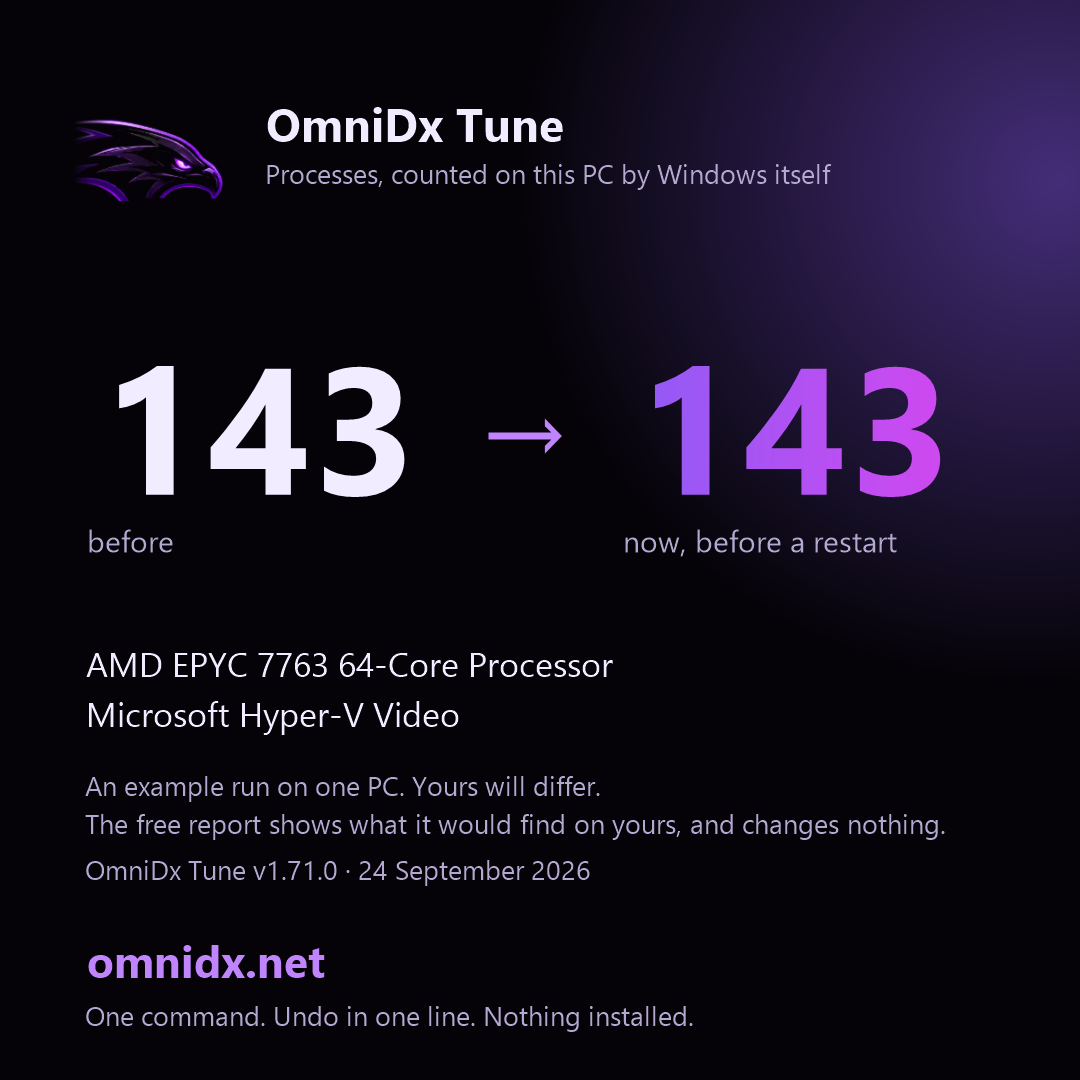
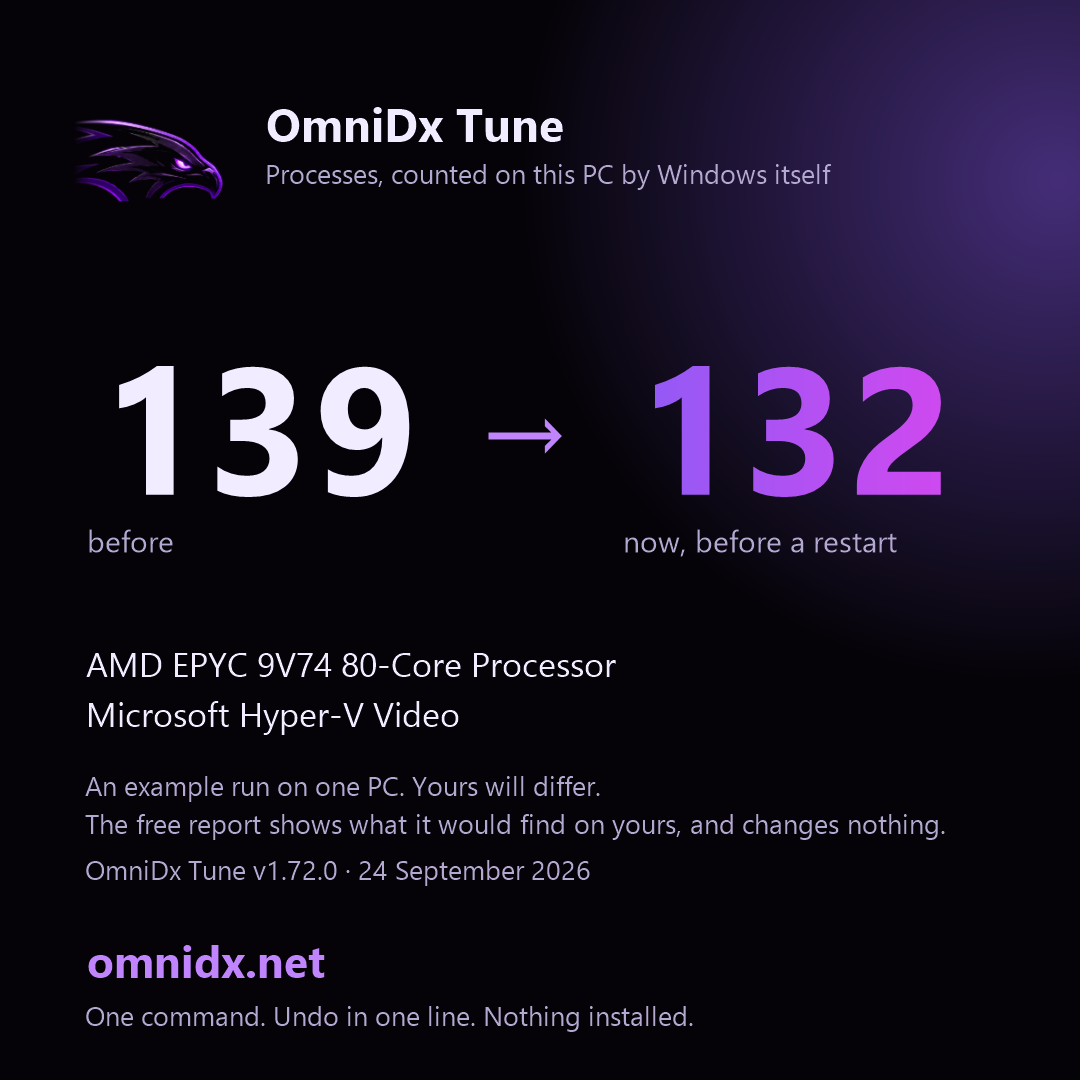
Windows check: the app window, the numbers, the log, and the script this run verified

diff --git a/studio/assets/ci-report.html b/studio/assets/ci-report.html
@@ -1,5 +1,5 @@
 <!doctype html><html lang="en"><head><meta charset="utf-8"><meta name="viewport" content="width=device-width,initial-scale=1">
-<title>OmniDx Tune report - 2026-09-24_12-20-41</title>
+<title>OmniDx Tune report - 2026-09-24_12-28-42</title>
 <style>
 body{margin:0;background:#050308;color:#f1ecff;font:15px/1.6 -apple-system,'Segoe UI',Roboto,system-ui,sans-serif}
 main{max-width:860px;margin:0 auto;padding:36px 20px 80px}
@@ -17,51 +17,51 @@ details{margin:10px 0;background:#0e0a17;border:1px solid #2a1f45;border-radius:
 details pre{font:12.5px/1.5 ui-monospace,Consolas,monospace;color:#b3a8cf;overflow:auto;max-height:420px;margin:10px 0 4px}
 .bios ul{list-style:none;padding-left:2px}.bios li{margin:8px 0;color:#f1ecff}.bios{background:#0e0a17;border:1px solid #2a1f45;border-radius:14px;padding:6px 18px}
 </style></head><body><main>
-<h1><img src="https://omnidx.net/studio/assets/icons/icon-192.png" alt="" width="44" height="44" style="vertical-align:middle;margin-right:10px" onerror="this.remove()">OmniDx Tune <span class="muted" style="font-size:16px">v1.71.0</span></h1>
-<p class="sub">Thursday, September 24, 2026 12:21 PM &middot; AMD EPYC 7763 64-Core Processor &middot; Microsoft Hyper-V Video &middot; 16 GB &middot; Microsoft Corporation Virtual Machine</p>
-<div class="big"><div><b>143</b><span>processes before</span></div><div><b>143</b><span>now, before a restart</span></div><div><b>~70</b><span>target for this PC after a restart</span></div></div>
+<h1><img src="https://omnidx.net/studio/assets/icons/icon-192.png" alt="" width="44" height="44" style="vertical-align:middle;margin-right:10px" onerror="this.remove()">OmniDx Tune <span class="muted" style="font-size:16px">v1.72.0</span></h1>
+<p class="sub">Thursday, September 24, 2026 12:29 PM &middot; AMD EPYC 9V74 80-Core Processor &middot; Microsoft Hyper-V Video &middot; 16 GB &middot; Microsoft Corporation Virtual Machine</p>
+<div class="big"><div><b>139</b><span>processes before</span></div><div><b>132</b><span>now, before a restart</span></div><div><b>~70</b><span>target for this PC after a restart</span></div></div>
 <p class='muted'>The card, for posting (the same numbers, on one picture): <code>ci-card.png</code></p><img src='ci-card.png' alt='Before and after, on a card' style='max-width:340px;width:100%;border-radius:14px;border:1px solid #2a1f45'>
 <p class="muted">Many of the "now" processes are only waiting to be stopped. The number after a restart is the one that counts; <code>C:\OmniDx\after-restart.txt</code> gets it at your next sign-in. Kept cut: a task at each sign-in puts back what a Windows update turns on; undo removes it.</p>
 <h2>Next steps</h2><ol><li>Restart. The services told to stop are still unwinding until you do, and the after-restart count lands in C:\OmniDx\after-restart.txt at your next sign-in, with the boot time of that start next to the one from before the tune.</li><li>BIOS: items 1 to 3 (memory profile, Re-Size BAR, CSM). Ten minutes, and the memory profile alone is the biggest free gain any PC has.</li><li>GPU control panel: low latency mode, power management and V-Sync, from the list below. Two minutes.</li><li>Launchers and overlays: the list below names the one or two settings in each that matter; the overlays are the usual cause of a stutter that &quot;came from nowhere&quot;.</li><li>Any time: $env:OMNIDX_MODE=&#39;status&#39;; irm omnidx.net/go.ps1 | iex shows what is still in place; undo is one line, and it is in this report.</li></ol>
-<h2>Before and after</h2><table><tr><th></th><th>Before</th><th>Now</th></tr><tr><td>Processes</td><td>143</td><td>143</td></tr><tr><td>Threads</td><td>1384</td><td>1538</td></tr><tr><td>Handles</td><td>47505</td><td>48965</td></tr><tr><td>Memory in use</td><td>2810 MB</td><td>3023 MB</td></tr><tr><td>Idle CPU</td><td>2%</td><td>27.3%</td></tr><tr><td>DPC time</td><td>0%</td><td>0.13%</td></tr></table>
+<h2>Before and after</h2><table><tr><th></th><th>Before</th><th>Now</th></tr><tr><td>Processes</td><td>139</td><td>132</td></tr><tr><td>Threads</td><td>1264</td><td>1381</td></tr><tr><td>Handles</td><td>47360</td><td>45685</td></tr><tr><td>Memory in use</td><td>3274 MB</td><td>3342 MB</td></tr><tr><td>Idle CPU</td><td>0.5%</td><td>0.8%</td></tr><tr><td>DPC time</td><td>0%</td><td>0.13%</td></tr></table>
 <h2>Gone, by name</h2><p class='muted'>Running before, not running now: spoolsv</p>
-<details><summary>Every process, before (55 names)</summary><pre>svchost                                  x78     1,134 MB
+<details><summary>Every process, before (55 names)</summary><pre>svchost                                  x75     1,080 MB
 conhost                                  x4         34 MB
-taskhostw                                x3         68 MB
-WmiPrvSE                                 x3         58 MB
+taskhostw                                x3         88 MB
 csrss                                    x2         14 MB
 fontdrvhost                              x2         11 MB
 notepad                                  x2         59 MB
 SMSvcHost                                x2         50 MB
+WmiPrvSE                                 x2         44 MB
 AzureArcSysTray                          x1         20 MB
 ctfmon                                   x1         31 MB
 DefenderSessionHelper                    x1          6 MB
 dockerd                                  x1         46 MB
 dwm                                      x1         76 MB
 explorer                                 x1        158 MB
-hosted-compute-agent                     x1         19 MB
+hosted-compute-agent                     x1         17 MB
 Idle                                     x1          0 MB
 LsaIso                                   x1          4 MB
 lsass                                    x1         31 MB
 MpDefenderCoreService                    x1         29 MB
 mqsvc                                    x1         19 MB
 msdtc                                    x1         14 MB
-MsMpEng                                  x1        162 MB
+MsMpEng                                  x1         73 MB
 node                                     x1         43 MB
 OpenConsole                              x1         14 MB
-powershell                               x1        165 MB
-provjobd.exe1432261340                   x1         21 MB
-Registry                                 x1        106 MB
+powershell                               x1        164 MB
+provjobd.exe529399940                    x1         20 MB
+Registry                                 x1         88 MB
 Runner.Listener                          x1         71 MB
 Runner.Worker                            x1        102 MB
 RuntimeBroker                            x1         47 MB
 SearchHost                               x1        109 MB
 Secure System                            x1         52 MB
-SecurityHealthService                    x1         12 MB
+SecurityHealthService                    x1         30 MB
 ServiceFabricLocalClusterManager         x1         36 MB
-services                                 x1         11 MB
+services                                 x1         12 MB
 ShellHost                                x1         42 MB
-sihost                                   x1         43 MB
+sihost                                   x1         42 MB
 smss                                     x1          2 MB
 spoolsv                                  x1         22 MB
 sqlwriter                                x1         11 MB
@@ -72,73 +72,69 @@ TiWorker                                 x1         30 MB
 TrustedInstaller                         x1         10 MB
 UserOOBEBroker                           x1         11 MB
 vmcompute                                x1         11 MB
-vmms                                     x1         34 MB
-WaAppAgent                               x1         86 MB
+vmms                                     x1         36 MB
+WaAppAgent                               x1         84 MB
 WaSecAgentProv                           x1          5 MB
 WindowsAzureGuestAgent                   x1         70 MB
-WindowsTerminal                          x1         85 MB
+WindowsTerminal                          x1         84 MB
 wininit                                  x1          9 MB
 winlogon                                 x1         13 MB
-wslservice                               x1         27 MB</pre></details><details><summary>Every process, after (60 names)</summary><pre>svchost                                  x70     1,040 MB
+wslservice                               x1         29 MB</pre></details><details><summary>Every process, after (56 names)</summary><pre>svchost                                  x67       981 MB
 conhost                                  x4         34 MB
-firefox                                  x3         90 MB
-taskhostw                                x3         90 MB
-WmiPrvSE                                 x3         66 MB
+taskhostw                                x3         86 MB
 csrss                                    x2         14 MB
 fontdrvhost                              x2         11 MB
 notepad                                  x2         59 MB
-RuntimeBroker                            x2         58 MB
 SMSvcHost                                x2         50 MB
+WmiPrvSE                                 x2         52 MB
 AzureArcSysTray                          x1         20 MB
-crashhelper                              x1          9 MB
+backgroundTaskHost                       x1         20 MB
 ctfmon                                   x1         31 MB
-default-browser-agent                    x1          6 MB
 DefenderSessionHelper                    x1          6 MB
 dllhost                                  x1         13 MB
 dockerd                                  x1         46 MB
 dwm                                      x1         76 MB
 explorer                                 x1        159 MB
-hosted-compute-agent                     x1         17 MB
+hosted-compute-agent                     x1         16 MB
 Idle                                     x1          0 MB
 LsaIso                                   x1          4 MB
 lsass                                    x1         31 MB
-MoUsoCoreWorker                          x1         23 MB
 MpDefenderCoreService                    x1         29 MB
 mqsvc                                    x1         19 MB
 msdtc                                    x1         14 MB
-MsMpEng                                  x1        162 MB
-node                                     x1         41 MB
+MsMpEng                                  x1         73 MB
+node                                     x1         42 MB
 OpenConsole                              x1         14 MB
-powershell                               x1        220 MB
-provjobd.exe1432261340                   x1         21 MB
-Registry                                 x1         67 MB
-Runner.Listener                          x1         70 MB
+powershell                               x1        189 MB
+provjobd.exe529399940                    x1         20 MB
+Registry                                 x1         64 MB
+Runner.Listener                          x1         71 MB
 Runner.Worker                            x1        100 MB
+RuntimeBroker                            x1         48 MB
 SearchHost                               x1        109 MB
 Secure System                            x1         52 MB
-SecurityHealthService                    x1         12 MB
+SecurityHealthService                    x1         30 MB
 ServiceFabricLocalClusterManager         x1         36 MB
 services                                 x1         12 MB
 ShellHost                                x1         42 MB
-sihost                                   x1         42 MB
+sihost                                   x1         43 MB
 smss                                     x1          2 MB
-sppsvc                                   x1         16 MB
 sqlwriter                                x1         11 MB
 sshd                                     x1          9 MB
 StartMenuExperienceHost                  x1        131 MB
 System                                   x1          0 MB
-TiWorker                                 x1         69 MB
+TiWorker                                 x1         39 MB
 TrustedInstaller                         x1         10 MB
 UserOOBEBroker                           x1         11 MB
 vmcompute                                x1         11 MB
-vmms                                     x1         34 MB
-WaAppAgent                               x1         86 MB
+vmms                                     x1         36 MB
+WaAppAgent                               x1         84 MB
 WaSecAgentProv                           x1          5 MB
 WindowsAzureGuestAgent                   x1         70 MB
-WindowsTerminal                          x1         85 MB
+WindowsTerminal                          x1         84 MB
 wininit                                  x1          9 MB
 winlogon                                 x1         13 MB
-wslservice                               x1         27 MB</pre></details>
+wslservice                               x1         29 MB</pre></details>
 <h2>Kept, and why</h2><ul><li>Defender, the firewall, Windows Update, audio, networking: always</li><li>Themes: Windows 10 falls back to the classic look without it</li><li>vmicguestinterface: this is a virtual machine</li><li>vmicheartbeat: this is a virtual machine</li><li>vmickvpexchange: this is a virtual machine</li><li>vmicrdv: this is a virtual machine</li><li>vmicshutdown: this is a virtual machine</li><li>vmictimesync: this is a virtual machine</li><li>vmicvmsession: this is a virtual machine</li><li>vmicvss: this is a virtual machine</li></ul>
 <h2>Warnings (3)</h2><div class="warn"><ul><li>The GPU driver dates from Jun 2006. A current driver is worth more than most tweaks.</li><li>This looks like a virtual machine. The tune will run, but the numbers mean little here.</li><li>Could not make a restore point (This functionality is not supported on this operating system.). The undo script still records everything.</li></ul></div>
 <h2>BIOS checklist for Microsoft Corporation Virtual Machine</h2><div class="bios"><ul><li>How to get in: restart, then press Del or F2 while the logo shows.</li><li>Where things are: the Advanced / Overclocking pages for memory, the PCI or Chipset page for Above 4G / Re-Size BAR, the Boot page for CSM, the Security page for TPM and Secure Boot.</li><li>1. Memory profile: enable EXPO (or DOCP / A-XMP on older boards). Your RAM is running at the slow default until you do; this is the single biggest free gain on any PC. Pick the profile matching the speed printed on the sticks.</li><li>2. Re-Size BAR / Smart Access Memory: set Above 4G Decoding = Enabled, then Re-Size BAR Support = Auto/Enabled. Needs CSM off (next line). Worth 5-15% in many games on RTX 30/40/50 and RX 6000+.</li><li>3. CSM (Compatibility Support Module): Disabled. You already boot UEFI, so nothing depends on it, and Re-Size BAR needs it off.</li><li>4. Secure Boot: Enabled. Windows 11 and Vanguard expect it; on 10 it costs nothing. Set OS Type / Secure Boot Mode to Windows UEFI if asked.</li><li>5. TPM: not detected. Enable AMD fTPM (AMD) or Intel PTT (Intel) under Security / Trusted Computing. VALORANT on Windows 11 will not run without it.</li><li>6. Precision Boost Overdrive: Enabled (or Advanced with the Curve Optimizer at a modest negative offset like -15 all-core if you know your cooler). Never a positive voltage offset.</li><li>7. Global C-states / package C-states: Auto is fine. Disabling them buys nothing measurable in games and raises idle heat.</li><li>8. Fast Boot: Enabled. Full Screen Logo / Boot Logo: Disabled (a second off every boot).</li><li>9. Fan curves: set the CPU fan to reach 100% by 80 C and the case fans to a steady ramp. Sustained boost needs airflow more than anything.</li><li>10. Onboard devices you do not use: serial port, Wi-Fi/Bluetooth if wired, onboard audio if you use USB audio, RGB controllers. Each one removed is an interrupt source gone.</li><li>11. HPET: leave at default. The &#39;disable HPET&#39; tweak is from 2013 and hurts more than it helps on modern Windows.</li><li>12. Virtualisation (SVM / VT-x): leave on if you use WSL, Docker, an emulator, or play VALORANT or on FACEIT (their anti-cheat needs it, with IOMMU); otherwise off saves a little scheduling overhead.</li><li>After saving: Windows will boot normally. If it does not (rare, usually CSM), go back in and re-enable the last thing you changed.</li><li>Do not update the BIOS unless the vendor&#39;s notes mention a fix for your exact problem; a failed flash is the one thing here that cannot be undone from Windows.</li></ul></div>
@@ -146,8 +142,8 @@ wslservice                               x1         27 MB</pre></details>
 <h2>Launchers, overlays and helper apps</h2><ul><li>None of the usual launchers, overlays or peripheral suites found. The same notes apply the day you install one; run the command again and they appear here.</li></ul>
 <h2>Left by other tools</h2><p class="muted">The tune changes none of these; it names them, with the way back.</p><ul><li>Nothing found: no other tool has left Defender, Windows Update, SmartScreen, User Account Control or the CPU mitigations switched off on this PC.</li></ul>
 <h2>Per game</h2><p class='muted'>Not found on this PC (the same profile applies if you install them): Fortnite, VALORANT, Counter-Strike 2, Marvel Rivals, Apex Legends, Call of Duty (Warzone / MW), Overwatch 2, Rainbow Six Siege, Rocket League, Minecraft, Roblox, League of Legends, GTA V / Online, Rust, Escape from Tarkov, PUBG, The Finals, Dota 2, Battlefield 6, Deadlock, Delta Force, ARC Raiders, Helldivers 2, Warframe, Destiny 2, Halo Infinite, Dead by Daylight, Hunt: Showdown 1896, War Thunder, World of Warcraft, Squad, Battlefield 2042, EA Sports FC 26, NBA 2K26, Palworld, Path of Exile 2, Diablo IV, Monster Hunter Wilds, Elden Ring / Nightreign, Cyberpunk 2077, Baldur&#39;s Gate 3, Star Citizen, DayZ, Arma Reforger, Hell Let Loose, Genshin Impact, Ready or Not, Final Fantasy XIV, STALKER 2, Sea of Thieves</p>
-<h2>What was done</h2><h4>Safety first</h4><div class='did'>Registry and service list backed up to C:\OmniDx\backup\2026-09-24_12-20-41</div><div class='did'>undo.ps1 written to C:\OmniDx\undo</div><h4>Startup apps</h4><div class='did'>off: AzureArcSetup</div><div class='did'>off: Service Fabric Local Cluster Manager (Startup folder)</div><h4>Services</h4><div class='did'>dmwappushservice -&gt; disabled  (telemetry push)</div><div class='did'>WerSvc -&gt; disabled  (error reporting)</div><div class='did'>wercplsupport -&gt; disabled  (error reporting)</div><div class='did'>PcaSvc -&gt; disabled  (compatibility assistant)</div><div class='did'>lfsvc -&gt; disabled  (geolocation)</div><div class='did'>RemoteRegistry -&gt; disabled  (remote registry)</div><div class='did'>WMPNetworkSvc -&gt; disabled  (media sharing)</div><div class='did'>TrkWks -&gt; disabled  (link tracking)</div><div class='did'>WalletService -&gt; disabled  (wallet)</div><div class='did'>wisvc -&gt; disabled  (insider program)</div><div class='did'>SEMgrSvc -&gt; disabled  (payments and NFC)</div><div class='did'>TapiSrv -&gt; disabled  (telephony)</div><div class='did'>SharedAccess -&gt; disabled  (internet connection sharing)</div><div class='did'>edgeupdate -&gt; manual  (Edge updater (runs on demand))</div><div class='did'>WbioSrvc -&gt; disabled  (biometrics)</div><div class='did'>SysMain already disabled; left that way</div><div class='did'>WSearch already disabled; left that way</div><div class='did'>Spooler -&gt; disabled  (print spooler)</div><div class='did'>bthserv -&gt; disabled  (bluetooth)</div><div class='did'>WlanSvc -&gt; disabled  (wi-fi)</div><div class='did'>CDPSvc -&gt; manual  (connected devices)</div><div class='did'>CDPUserSvc already disabled; left that way</div><div class='did'>OneSyncSvc already disabled; left that way</div><div class='did'>PimIndexMaintenanceSvc already disabled; left that way</div><div class='did'>UnistoreSvc already disabled; left that way</div><div class='did'>UserDataSvc already disabled; left that way</div><div class='did'>SSDPSRV already disabled; left that way</div><div class='did'>upnphost already disabled; left that way</div><div class='did'>DPS -&gt; manual  (diagnostic policy)</div><div class='did'>SCardSvr -&gt; disabled  (smart card)</div><div class='did'>ScDeviceEnum -&gt; disabled  (smart card)</div><div class='did'>CertPropSvc -&gt; disabled  (smart card)</div><div class='did'>iphlpsvc -&gt; manual  (ipv6 tunnels)</div><div class='did'>cbdhsvc -&gt; manual  (clipboard history)</div><div class='did'>WpnService -&gt; manual  (push notifications)</div><div class='did'>WpnUserService -&gt; manual  (push notifications)</div><div class='did'>SNMPTRAP -&gt; disabled  (SNMP traps)</div><div class='did'>workfolderssvc -&gt; disabled  (Work Folders sync)</div><h4>Scheduled tasks</h4><div class='did'>PcaPatchDbTask</div><div class='did'>CreateObjectTask</div><div class='did'>Device</div><div class='did'>Device User</div><div class='did'>LoginCheck</div><div class='did'>WindowsActionDialog</div><div class='did'>OobeDiscovery</div><div class='did'>Diagnostics</div><div class='did'>UsageDataFlushing</div><div class='did'>UsageDataReporting</div><div class='did'>Registration</div><div class='did'>IndexerAutomaticMaintenance</div><div class='did'>Storage Tiers Management Initialization</div><div class='did'>UPnPHostConfig</div><div class='did'>ResolutionHost</div><div class='did'>UpdateLibrary</div><div class='did'>Work Folders Logon Synchronization</div><div class='did'>Work Folders Maintenance Work</div><h4>Preinstalled apps</h4><div class='did'>Microsoft.WindowsFeedbackHub</div><h4>Debloat</h4><div class='did'>removed Steps Recorder (screenshots every click, retired by Microsoft)</div><div class='did'>removed the 2009 Windows Media Player (the Store one stays)</div><div class='did'>removed Math Input Panel</div><div class='did'>removed Internet Explorer 11</div><div class='did'>off: Work Folders (corporate sync)</div><div class='did'>Edge: shopping assistant, recommendations, Spotlight, feedback prompts and reporting off</div><div class='did'>Kept gone: consumer features, suggested apps, account nags and the &#39;finish setting up&#39; screen are off by policy</div><h4>Telemetry, background activity, the shell</h4><div class='did'>Telemetry, the advertising id, activity history, suggestions, Bing in Start, Recall and Edge&#39;s reporting off; background apps off; widgets, news, Copilot and Cortana off; Game DVR off, Game Mode on; the classic right-click menu on 11</div><h4>System tuning</h4><div class='did'>NTFS last-access stamps off</div><div class='did'>NTFS allowed more memory for its cache</div><div class='did'>Defender&#39;s scheduled scans already capped at 5% of the CPU, lower than the tune&#39;s 25%: left as it is</div><h4>The OmniDx power plan</h4><div class='did'>2 plan setting(s) this PC does not have were skipped.</div><div class='did'>OmniDx plan created and active: CPU 100/100, boost aggressive, energy preference on performance, no core parking, no throttle states on a desktop, PCIe, USB and Wi-Fi power saving off, no sleep on mains.</div><h4>Network</h4><div class='did'>TCP: autotuning normal, ECN and timestamps off, receive-side scaling on, segment coalescing off, CTCP.</div><div class='did'>Ethernet 3: Nagle off, power saving off</div><div class='did'>Ethernet 4: Interrupt Moderation off</div><div class='did'>Ethernet 4: Nagle off, power saving off</div><h4>Discord, Spotify, browsers</h4><div class='did'>Chrome: no background mode, hardware acceleration on</div><div class='did'>Edge: no startup boost, no background mode, hardware acceleration on</div><h4>Game profiles</h4><div class='did'>No listed game found on the usual drives; the CPU-priority profiles are in place for when one is installed.</div><h4>Cleanup</h4><div class='did'>Temp files, the Windows Update download cache and the peer-to-peer update cache cleared: about 305 MB back.</div><h4>Keeping it cut</h4><div class='did'>Task &#39;OmniDx keep&#39; runs three minutes after sign-in, puts back whatever an update turned on, notes that start&#39;s boot time and writes card-after-restart.png with that start&#39;s count. Log: C:\OmniDx\keep-log.txt. Undo removes it.</div>
-<h2>Undo</h2><p>Administrator PowerShell: <code>powershell -ExecutionPolicy Bypass -File C:\OmniDx\undo\undo.ps1</code><br>No restore point was made on this run (see the warnings); the undo script is the way back.<br>Changes recorded in <code>C:\OmniDx\undo\changes-2026-09-24_12-20-41.json</code>.</p>
+<h2>What was done</h2><h4>Safety first</h4><div class='did'>Registry and service list backed up to C:\OmniDx\backup\2026-09-24_12-28-42</div><div class='did'>undo.ps1 written to C:\OmniDx\undo</div><h4>Startup apps</h4><div class='did'>off: AzureArcSetup</div><div class='did'>off: Service Fabric Local Cluster Manager (Startup folder)</div><h4>Services</h4><div class='did'>dmwappushservice -&gt; disabled  (telemetry push)</div><div class='did'>WerSvc -&gt; disabled  (error reporting)</div><div class='did'>wercplsupport -&gt; disabled  (error reporting)</div><div class='did'>PcaSvc -&gt; disabled  (compatibility assistant)</div><div class='did'>lfsvc -&gt; disabled  (geolocation)</div><div class='did'>RemoteRegistry -&gt; disabled  (remote registry)</div><div class='did'>WMPNetworkSvc -&gt; disabled  (media sharing)</div><div class='did'>TrkWks -&gt; disabled  (link tracking)</div><div class='did'>WalletService -&gt; disabled  (wallet)</div><div class='did'>wisvc -&gt; disabled  (insider program)</div><div class='did'>SEMgrSvc -&gt; disabled  (payments and NFC)</div><div class='did'>TapiSrv -&gt; disabled  (telephony)</div><div class='did'>SharedAccess -&gt; disabled  (internet connection sharing)</div><div class='did'>edgeupdate -&gt; manual  (Edge updater (runs on demand))</div><div class='did'>WbioSrvc -&gt; disabled  (biometrics)</div><div class='did'>SysMain already disabled; left that way</div><div class='did'>WSearch already disabled; left that way</div><div class='did'>Spooler -&gt; disabled  (print spooler)</div><div class='did'>bthserv -&gt; disabled  (bluetooth)</div><div class='did'>WlanSvc -&gt; disabled  (wi-fi)</div><div class='did'>CDPSvc -&gt; manual  (connected devices)</div><div class='did'>CDPUserSvc already disabled; left that way</div><div class='did'>OneSyncSvc already disabled; left that way</div><div class='did'>PimIndexMaintenanceSvc already disabled; left that way</div><div class='did'>UnistoreSvc already disabled; left that way</div><div class='did'>UserDataSvc already disabled; left that way</div><div class='did'>SSDPSRV already disabled; left that way</div><div class='did'>upnphost already disabled; left that way</div><div class='did'>DPS -&gt; manual  (diagnostic policy)</div><div class='did'>SCardSvr -&gt; disabled  (smart card)</div><div class='did'>ScDeviceEnum -&gt; disabled  (smart card)</div><div class='did'>CertPropSvc -&gt; disabled  (smart card)</div><div class='did'>iphlpsvc -&gt; manual  (ipv6 tunnels)</div><div class='did'>cbdhsvc -&gt; manual  (clipboard history)</div><div class='did'>WpnService -&gt; manual  (push notifications)</div><div class='did'>WpnUserService -&gt; manual  (push notifications)</div><div class='did'>SNMPTRAP -&gt; disabled  (SNMP traps)</div><div class='did'>workfolderssvc -&gt; disabled  (Work Folders sync)</div><h4>Scheduled tasks</h4><div class='did'>PcaPatchDbTask</div><div class='did'>CreateObjectTask</div><div class='did'>Device</div><div class='did'>Device User</div><div class='did'>LoginCheck</div><div class='did'>WindowsActionDialog</div><div class='did'>OobeDiscovery</div><div class='did'>Diagnostics</div><div class='did'>UsageDataFlushing</div><div class='did'>UsageDataReporting</div><div class='did'>Registration</div><div class='did'>IndexerAutomaticMaintenance</div><div class='did'>Storage Tiers Management Initialization</div><div class='did'>UPnPHostConfig</div><div class='did'>ResolutionHost</div><div class='did'>UpdateLibrary</div><div class='did'>Work Folders Logon Synchronization</div><div class='did'>Work Folders Maintenance Work</div><h4>Preinstalled apps</h4><div class='did'>Microsoft.WindowsFeedbackHub</div><h4>Debloat</h4><div class='did'>removed Steps Recorder (screenshots every click, retired by Microsoft)</div><div class='did'>removed the 2009 Windows Media Player (the Store one stays)</div><div class='did'>removed Math Input Panel</div><div class='did'>removed Internet Explorer 11</div><div class='did'>off: Work Folders (corporate sync)</div><div class='did'>Edge: shopping assistant, recommendations, Spotlight, feedback prompts and reporting off</div><div class='did'>Kept gone: consumer features, suggested apps, account nags and the &#39;finish setting up&#39; screen are off by policy</div><h4>Telemetry, background activity, the shell</h4><div class='did'>Telemetry, the advertising id, activity history, suggestions, Bing in Start, Recall and Edge&#39;s reporting off; background apps off; widgets, news, Copilot and Cortana off; Game DVR off, Game Mode on; the classic right-click menu on 11</div><h4>System tuning</h4><div class='did'>NTFS last-access stamps off</div><div class='did'>NTFS allowed more memory for its cache</div><div class='did'>Defender&#39;s scheduled scans already capped at 5% of the CPU, lower than the tune&#39;s 25%: left as it is</div><h4>The OmniDx power plan</h4><div class='did'>2 plan setting(s) this PC does not have were skipped.</div><div class='did'>OmniDx plan created and active: CPU 100/100, boost aggressive, energy preference on performance, no core parking, no throttle states on a desktop, PCIe, USB and Wi-Fi power saving off, no sleep on mains.</div><h4>Network</h4><div class='did'>TCP: autotuning normal, ECN and timestamps off, receive-side scaling on, segment coalescing off, CTCP.</div><div class='did'>Ethernet 3: Nagle off, power saving off</div><div class='did'>Ethernet 4: Interrupt Moderation off</div><div class='did'>Ethernet 4: Nagle off, power saving off</div><h4>Discord, Spotify, browsers</h4><div class='did'>Chrome: no background mode, hardware acceleration on</div><div class='did'>Edge: no startup boost, no background mode, hardware acceleration on</div><h4>Game profiles</h4><div class='did'>No listed game found on the usual drives; the CPU-priority profiles are in place for when one is installed.</div><h4>Cleanup</h4><div class='did'>Temp files, the Windows Update download cache and the peer-to-peer update cache cleared: about 374 MB back.</div><h4>Keeping it cut</h4><div class='did'>Task &#39;OmniDx keep&#39; runs three minutes after sign-in, puts back whatever an update turned on, notes that start&#39;s boot time and writes card-after-restart.png with that start&#39;s count. Log: C:\OmniDx\keep-log.txt. Undo removes it.</div>
+<h2>Undo</h2><p>Administrator PowerShell: <code>powershell -ExecutionPolicy Bypass -File C:\OmniDx\undo\undo.ps1</code><br>No restore point was made on this run (see the warnings); the undo script is the way back.<br>Changes recorded in <code>C:\OmniDx\undo\changes-2026-09-24_12-28-42.json</code>.</p>
 <h2>Status, any time</h2><p>What is still in place, what an update put back, the keep task and the after-restart count: <code>$env:OMNIDX_MODE='status'; irm omnidx.net/go.ps1 | iex</code><br><span class="muted">README.txt in C:\OmniDx says what each file there is.</span></p>
 <p class="muted" style="margin-top:40px">omnidx.net &middot; one payment, one PC, undo in one line.</p>
 </main></body></html>
